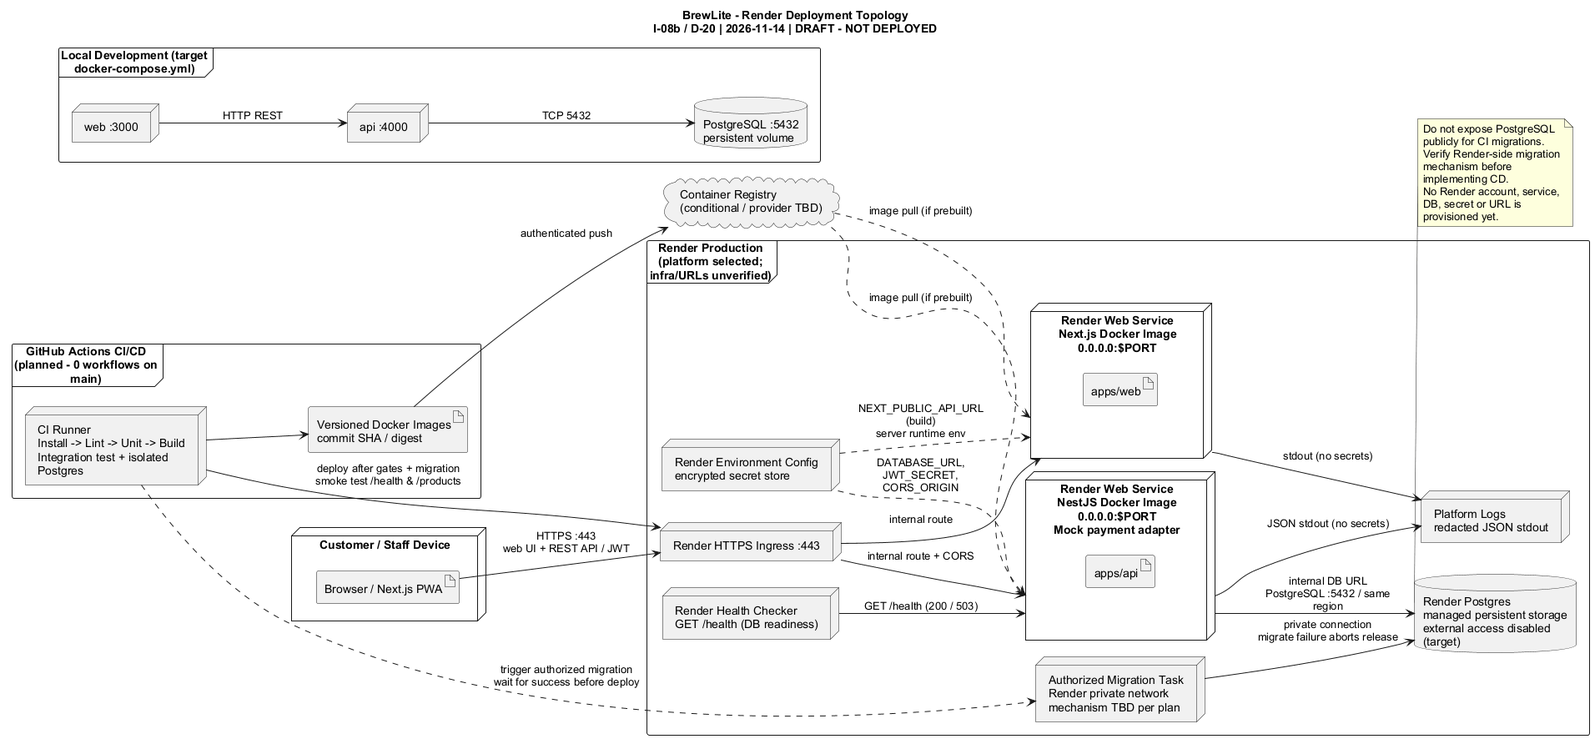
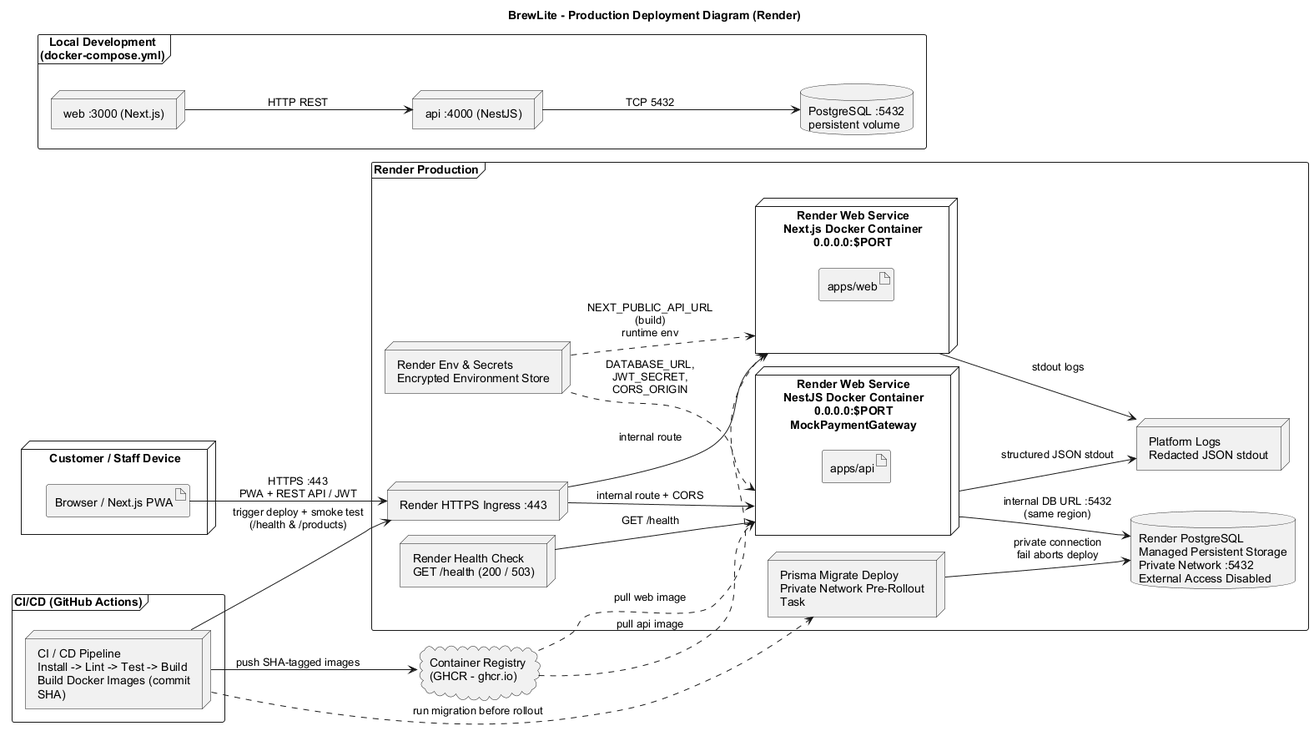
docs(tv1): keep Task 3.1/3.2 deliverables clean without audit notes

diff --git a/docs/architecture.md b/docs/architecture.md
@@ -1,12 +1,8 @@
 # Kiến trúc hệ thống BrewLite (Task 3.1)
 
-- **Phiên bản:** 1.3 – cập nhật đồng bộ `origin/main@ad3e7a2` ngày 14/11/2026, chờ TV2 review
-- **Phương pháp trình bày:** C4 model (Level 1–2) kết hợp kiến trúc phân lớp cho backend. Các quyết định quan trọng được ghi tại `docs/architecture/adr/`.
-- **Tài liệu liên quan:** [SRS tổng quát](requirements/srs.md) *(nguồn chuẩn mã FR/NFR đã hợp nhất)*, [Use-case checkout](requirements/use-case-checkout.md), [Điều kiện triển khai (D-20)](architecture/deployment-readiness.md), [Sơ đồ triển khai Render](diagrams/deployment-render.svg) ([nguồn PUML](diagrams/deployment-render.puml)).
-
-> **Lưu ý hiện trạng:** Đây là thiết kế đề xuất, không phải xác nhận hệ thống đã triển khai. Đối chiếu ngày `14/11/2026` trên `origin/main@ad3e7a2` (sau PR #54), `origin/Huy@bdf5891`, `origin/Nghia1@9f6cb4f` (PR #53) và `origin/tai@15cb1f8`: nhánh `main` chưa có ứng dụng thực thi (`apps/api`, `apps/web`, `.github/workflows` mới chỉ có `.gitkeep`); mã API/Prisma/Compose DB hiện nằm riêng trên `origin/tai`; chưa có code Next.js web, Dockerfile, CI/CD workflow hay URL production. PR #53 (chưa merge) đang xung đột với PR #54 vừa merge về bộ mã FR và các file SRS thành phần.
-
-Tài liệu này là đầu mối duy nhất cho mô tả kiến trúc **D-13**. [Đường dẫn kiến trúc cũ](architecture/architecture.md) trỏ về đây để tránh duy trì hai luồng mô tả payment khác nhau. Nhóm đã chốt dùng **Prisma** (`ADR-003: 003-postgresql-prisma.md`); việc đánh dấu `Superseded` cho bản đề xuất TypeORM (`003-orm-schema-catalog.md`) và thống nhất đánh số ADR các mảng khác thuộc chủ sở hữu tương ứng hoàn tất.
+- **Phiên bản:** 1.2 (cập nhật 2026-11-14)
+- **Phương pháp trình bày:** C4 model (Level 1–2) kết hợp kiến trúc phân lớp cho backend. Các quyết định quan trọng được ghi tại `docs/architecture/adr/` (ADR-001 đến ADR-008).
+- **Tài liệu liên quan:** [SRS](requirements/srs.md), [Use-case checkout](requirements/use-case-checkout.md), [Deployment diagram](diagrams/deployment-render.svg) ([PUML](diagrams/deployment-render.puml))
 
 ## 1. Mục tiêu và ràng buộc kiến trúc
 
@@ -22,155 +18,161 @@ Tài liệu này là đầu mối duy nhất cho mô tả kiến trúc **D-13**.
 
 ```mermaid
 flowchart LR
-    C[Khách hàng] -->|Đặt và theo dõi đơn| B[BrewLite]
-    S[Nhân viên quầy] -->|Xử lý đơn sau thanh toán| B
-    B -->|Ví hoặc Thẻ mô phỏng| P[Payment Service logic]
+    C[Khách hàng<br/>Mobile / PWA] -->|Xem menu, đặt & thanh toán, theo dõi đơn| B[Hệ thống BrewLite]
+    S[Nhân viên quầy] -->|Cập nhật trạng thái đơn| B
+    B -->|Thanh toán Ví / Thẻ mô phỏng| P[Cổng thanh toán mô phỏng]
 ```
-
-Payment Service là actor logic; cách triển khai đề xuất là adapter bên trong API (`ADR-006`).
 
 | Thành phần | Mô tả |
 |---|---|
 | Khách hàng | Đặt và thanh toán đồ uống, theo dõi đơn trên điện thoại |
-| Nhân viên quầy | Xem đơn và cập nhật trạng thái đơn (`PAID → PREPARING → READY → COMPLETED`) |
-| BrewLite | Hệ thống đặt đồ uống (`apps/web` + `apps/api` + PostgreSQL) |
-| Cổng thanh toán (mô phỏng) | Hệ thống bên ngoài về mặt logic, được cài đặt bằng adapter chạy trong API |
+| Nhân viên quầy | Xem đơn và cập nhật trạng thái đơn |
+| BrewLite | Hệ thống đặt đồ uống (web + API + database) |
+| Cổng thanh toán (mô phỏng) | Hệ thống bên ngoài về mặt logic, được cài đặt bằng adapter chạy trong API (ADR-006) |
 
 ## 3. C4 – Level 2: Container
 
 ```mermaid
 flowchart LR
-    U[Trình duyệt PWA] -->|HTTPS| W[Next.js Web]
-    U -->|HTTPS REST + JWT| A[NestJS API]
-    W -->|REST nếu render phía server| A
-    A -->|PostgreSQL protocol / Private Network| D[(PostgreSQL + persistent storage)]
+    U[Trình duyệt / PWA] -->|HTTPS| W[Web App<br/>Next.js]
+    U -->|HTTPS REST + JWT| A[API<br/>NestJS]
+    W -->|REST SSR nếu cần| A
+    A -->|TCP / Private Network :5432| D[(Database<br/>PostgreSQL)]
 ```
 
-Sơ đồ trên minh họa mức container; cổng, TLS termination, cơ chế migration và hạ tầng Render dự kiến được chi tiết tại [Điều kiện triển khai (D-20)](architecture/deployment-readiness.md) và [Sơ đồ triển khai Render](diagrams/deployment-render.svg).
-
-| Container | Công nghệ | Trách nhiệm | Mã nguồn dự kiến |
+| Container | Công nghệ | Trách nhiệm | Mã nguồn |
 |---|---|---|---|
 | Web App | Next.js, PWA | Giao diện mobile-first, giỏ hàng phía client, gọi API, hiển thị loading/empty/error | `apps/web` |
 | API | NestJS | Nghiệp vụ, xác thực JWT, validate, transaction, idempotency, job nền, gateway thanh toán mô phỏng | `apps/api` |
-| Database | PostgreSQL | Lưu người dùng, menu, đơn hàng, thanh toán, idempotency key | `apps/api/prisma/` (Prisma schema & migrations) |
+| Database | PostgreSQL | Lưu dữ liệu bền vững, ràng buộc toàn vẹn | `docker-compose.yml` (local), `apps/api/prisma/` (schema + migrations) |
 
-## 4. Kiến trúc backend (Modular Monolith)
+Cổng thanh toán mô phỏng **không phải container riêng**: nó là adapter `MockPaymentGateway` trong module `payments` của API (`apps/api/src/payments/gateway`), nên xuất hiện ở mức component (mục 4), không ở mức container (ADR-006).
 
-Backend tổ chức dạng modular monolith trên NestJS, chia theo miền nghiệp vụ tương ứng 4 phân hệ backend của nhóm:
+## 4. Kiến trúc phân lớp của backend (NestJS)
+
+Backend là modular monolith: một ứng dụng triển khai duy nhất, chia module theo domain (ADR-002).
 
 ```text
 apps/api/src/
-  common/       # config validation, logger, guards, decorators, error filters
-  prisma/       # PrismaModule & PrismaService kết nối PostgreSQL dùng chung
-  auth/         # TV2: đăng ký, đăng nhập, JWT, Users
-  products/     # TV3: danh mục, sản phẩm, size, topping, tồn kho
-  orders/       # TV4: tạo đơn (transaction), validate, lịch sử/chi tiết, cập nhật trạng thái
-  payments/     # TV4: thanh toán mô phỏng, idempotency, job nền đối soát/hủy đơn
-  health/       # TV2: GET /health, GET /health/live
+├── auth/          # đăng ký, đăng nhập, JWT, guard, thực thể User
+├── products/      # menu, size, topping, tồn kho
+├── orders/        # tạo đơn, PricingService, trạng thái, lịch sử
+├── payments/      # thanh toán, idempotency, gateway mô phỏng, job nền
+├── promotions/    # mức Could, cắt được
+├── loyalty/       # mức Could, cắt được
+├── health/        # GET /health, GET /health/live
+├── common/        # filter, interceptor, logger, guard dùng chung
+├── config/        # đọc và validate biến môi trường
+└── prisma/        # PrismaModule + PrismaService (dùng chung)
+
+apps/api/prisma/
+├── schema.prisma  # mô hình dữ liệu
+├── migrations/    # lịch sử migration (SQL)
+└── seed.ts        # dữ liệu mẫu
 ```
+
+Giỏ hàng được giữ phía client (Web App), chỉ gửi lên server khi đặt đơn; server không có module `cart`.
 
 Mỗi module theo 3 lớp:
 
-| Lớp | Thành phần | Trách nhiệm |
+| Lớp | Thành phần NestJS | Quy tắc |
 |---|---|---|
-| Presentation | Controller, DTO (`class-validator`), Guards | Nhận HTTP request, validate input, kiểm tra JWT/role, map response/HTTP status |
-| Application / Domain | Service | Quy tắc nghiệp vụ: tính giá server, chuyển trạng thái, transaction, idempotency |
-| Infrastructure | `PrismaService` (PostgreSQL), Payment gateway adapter | Truy cập DB và hệ thống ngoài |
+| Presentation | Controller, DTO (class-validator), Guard | Chỉ nhận/trả HTTP, validate đầu vào, không chứa nghiệp vụ |
+| Application/Domain | Service | Nghiệp vụ, quản lý transaction, gọi sang module khác qua service được export |
+| Infrastructure | PrismaService (Prisma Client), Payment gateway adapter | Truy cập DB và hệ thống ngoài |
 
 **Quy tắc phụ thuộc:**
-- Trong module: `Controller → Service → PrismaService hoặc Adapter`.
-- Giữa các module: chỉ gọi qua service được export, không truy cập bảng của nhau; hướng một chiều `payments → orders → products`, không phụ thuộc vòng. Các method tham gia giao dịch nhận context transaction (`tx`) để nhiều module chạy chung một transaction.
-- Mục tiêu kiểm soát tự động: dùng ESLint rule (`no-restricted-imports`) trong CI. Hiện tại `.github/workflows` chưa có workflow và `origin/tai:apps/api/package.json` chưa có script `lint`, nên chưa có bằng chứng kiểm tra tự động.
-- Job nền (hủy đơn quá hạn, đối soát payment treo) đặt trong module `payments`, chạy trong tiến trình API bằng `@nestjs/schedule`.
+- Trong module: Controller → Service → PrismaService/Adapter.
+- Giữa các module: chỉ gọi qua service được export, không truy cập bảng của nhau; hướng một chiều `payments → orders → products`, không phụ thuộc vòng. Các method tham gia giao dịch nhận `tx` (`Prisma.TransactionClient`) để nhiều module chạy chung một transaction.
+- Quy tắc được kiểm tra tự động trong bước lint của CI (ESLint `no-restricted-imports` hoặc `dependency-cruiser`).
+- Job nền (hủy đơn quá hạn, đối soát payment treo) đặt trong module `payments`, chạy trong container API bằng `@nestjs/schedule`.
 
-**Thiết kế bảo mật (ADR-007; chưa triển khai đầy đủ):** JWT HS256 sống ngắn, `JwtAuthGuard` toàn cục kèm `@Public()` cho endpoint công khai, `RolesGuard` cho `CUSTOMER`/`STAFF`, kiểm tra quyền sở hữu đơn trong service, mật khẩu băm bằng bcrypt.
+**Bảo mật (ADR-007):** JWT HS256 sống ngắn, `JwtAuthGuard` toàn cục kèm `@Public()` cho endpoint công khai, `RolesGuard` cho `CUSTOMER`/`STAFF`, kiểm tra quyền sở hữu đơn trong service, mật khẩu băm bằng bcrypt.
 
 ## 5. Frontend Next.js / PWA
 
-- **Mobile-first:** layout ưu tiên màn hình nhỏ (từ 320 px, kiểm tra lịch sử ở 360/390 px), vùng chạm chính `>= 48x48` CSS px.
-- **PWA:** `manifest.webmanifest`, service worker cache tài nguyên tĩnh và trang menu; **không** cache các API có xác thực (đơn hàng, thanh toán).
-- **Gọi API:** lớp `lib/api` tập trung, tự gắn JWT trong header `Authorization`; tự sinh `Idempotency-Key` cho mỗi ý định thanh toán và giữ nguyên key khi retry cùng ý định; đơn mới dùng key mới.
-- **Phiên đăng nhập:** khi API trả `401`, chuyển hướng đăng nhập và giữ giỏ hàng (lưu phía client).
-- **Trạng thái UI:** mọi màn hình dữ liệu đều tách bạch trạng thái loading / empty / error; trạng thái đơn không chỉ phân biệt bằng màu.
-- **Cấu hình:** biến `NEXT_PUBLIC_API_URL` được nhúng lúc build Docker/Next.js cho từng môi trường (ADR-008); không đặt secret trong bất kỳ biến `NEXT_PUBLIC_*` nào.
+- **Mobile-first:** layout ưu tiên màn hình nhỏ, thành phần chạm lớn.
+- **PWA:** `manifest.webmanifest`, service worker cache tài nguyên tĩnh và trang menu; không cache các API có xác thực (đơn hàng, thanh toán).
+- **Gọi API:** lớp `lib/api` tập trung, tự gắn JWT trong header `Authorization`; tự sinh `Idempotency-Key` cho mỗi ý định thanh toán và giữ nguyên key khi retry; đơn mới thì dùng key mới.
+- **Phiên đăng nhập:** khi API trả `401`, chuyển sang trang đăng nhập và giữ giỏ hàng (lưu phía client).
+- **Trạng thái UI:** mọi màn hình dữ liệu đều có loading / empty / error.
+- **Cấu hình:** `NEXT_PUBLIC_API_URL` được nhúng lúc build, nên image web production được build với URL API của production (ADR-008). Không đặt secret trong biến `NEXT_PUBLIC_*`.
 
 ## 6. PostgreSQL và cơ chế migration
 
-- **Quyết định ORM đã chốt:** Nhóm đã chốt sử dụng **PostgreSQL + Prisma (`Prisma Migrate`)** theo [ADR-003 Prisma](architecture/adr/003-postgresql-prisma.md), khớp với cấu trúc `apps/api/prisma/schema.prisma` trên nhánh `origin/tai@15cb1f8`. Bản đề xuất TypeORM cũ ([003-orm-schema-catalog.md](architecture/adr/003-orm-schema-catalog.md)) trên `main` cần được **TV3** đánh dấu `Superseded` để xóa trùng mã ADR `003` (giữ lại các quy ước schema như tiền `integer` VND, `CHECK`, snapshot giá và seed idempotent).
-- **Local:** `prisma migrate dev` tạo migration mới. **Production/CI:** `prisma migrate deploy` chỉ áp dụng các migration đã commit (không dùng `migrate dev` hay `db push` ở production); Dockerfile/CI chạy `prisma generate` trước bước build.
-- **Migration khi deploy:** chạy như một bước kiểm soát riêng **trước khi chuyển lưu lượng** sang bản mới; thất bại thì pipeline dừng. Vì runner CI công khai không được kết nối trực tiếp vào DB private trên Render, cần dùng tác vụ chạy phía Render trong mạng nội bộ.
-- **Seed:** script seed phải idempotent (`prisma db seed`). Dữ liệu danh mục/món mẫu có thể chạy kiểm soát; tài khoản demo chỉ dành cho local/staging.
-- **Migration an toàn:** ưu tiên thay đổi tương thích ngược (expand → contract); rollback dùng migration sửa ngược hoặc khôi phục snapshot trước migration.
-- **Ràng buộc dữ liệu bắt buộc:** `CHECK (stock_quantity >= 0)`, giá và phụ thu nguyên VND `>= 0`, partial unique index `payments(order_id) WHERE status = 'SUCCESS'`, khóa duy nhất `(user_id, key)` cho idempotency, khóa ngoại rõ ràng.
-- **Storage:** PostgreSQL local dùng persistent volume trong `docker-compose.yml`; production dùng managed persistent storage và **tắt external/public access**.
+- Dùng **Prisma** (Prisma Client + Prisma Migrate). Mô hình dữ liệu khai báo trong `apps/api/prisma/schema.prisma` (ADR-003).
+- **Local:** `prisma migrate dev` tạo migration mới. **Production/CI:** `prisma migrate deploy` chỉ áp dụng các migration đã commit (không dùng `migrate dev` hay `db push` ở production); Dockerfile và CI chạy `prisma generate` trước bước build.
+- `prisma migrate deploy` chạy như **một bước riêng trong pipeline deploy** (trong mạng nội bộ trước khi chuyển lưu lượng sang bản mới); thất bại thì pipeline dừng. Có backup/snapshot trước khi migrate nếu nền tảng hỗ trợ.
+- **Seed** bằng `prisma db seed` (`prisma/seed.ts`), idempotent. Dữ liệu tham chiếu (danh mục, sản phẩm, size, topping) được chạy một lần có kiểm soát trên production để menu không rỗng; dữ liệu demo (tài khoản mẫu) chỉ chạy ở local/staging.
+- **Migration an toàn:** chỉ thêm cột/bảng theo kiểu tương thích ngược (expand → contract). Prisma không sinh `down`, nên rollback dùng migration mới "sửa ngược" hoặc restore backup.
+- **Ràng buộc ở mức DB:** `CHECK (stock_quantity >= 0)`, giá và phụ thu `>= 0`, partial unique index `payments(order_id) WHERE status = 'SUCCESS'` (thêm bằng SQL thủ công trong file migration), `@@unique([userId, key])` cho `idempotency_keys`, khóa ngoại giữa `orders`/`order_items`/`payments`.
+- **Docker:** local chạy service `db` với persistent volume; production dùng managed persistent storage và không public trực tiếp.
 
 ## 7. Dịch vụ thanh toán mô phỏng
 
-- Interface `PaymentGateway` có `charge(request)` (idempotent theo key) và `getStatus(idempotencyKey)` để đối soát sau timeout (`GatewayTimeoutError`).
-- `MockPaymentGateway` (Ví/Thẻ) cho phép mô phỏng thành công, từ chối, timeout và độ trễ; lưu trạng thái giả lập trong DB để không mất khi API khởi động lại.
-- Chọn provider qua `PAYMENT_PROVIDER=mock`, cho phép thay bằng cổng thật mà không sửa nghiệp vụ cốt lõi (ADR-006).
+- Interface `PaymentGateway` có `charge(request)` (idempotent theo key) và `getStatus(idempotencyKey)` để đối soát sau timeout; timeout biểu diễn bằng `GatewayTimeoutError`.
+- `MockPaymentGateway` (Ví/Thẻ) có hành vi điều khiển bằng số thẻ/ví thử nghiệm: thành công, từ chối, timeout đã trừ tiền, timeout chưa trừ tiền, độ trễ. Trạng thái giao dịch lưu trong bảng riêng `mock_gateway_transactions` để không mất khi API khởi động lại.
+- Chọn provider bằng `PAYMENT_PROVIDER=mock`. Có thể thay bằng cổng thật (VNPay/Stripe…) mà không đổi nghiệp vụ nhờ interface.
+- Xem ADR-006.
 
 ## 8. Logging, health check, quản lý cấu hình
 
 | Hạng mục | Giải pháp |
 |---|---|
-| Logging | Log JSON có cấu trúc (pino/`nestjs-pino`), gắn `requestId`, xuất ra stdout; redact `authorization`, `cookie`, mật khẩu, token; không log số thẻ hoặc secret (`NFR-07`) |
-| Health check | `GET /health` (readiness: kiểm tra API + kết nối DB, trả 200 hoặc 503 khi mất DB) theo `NFR-16`; thống nhất với `ADR-008` về `/health/live` trước khi cài đặt `health` module |
-| Cấu hình & cổng | Biến môi trường 12-factor, validate khi khởi động; tương thích biến `PORT` do Render cấp cho Web Service (mã `origin/tai:apps/api/src/main.ts` hiện chỉ đọc `API_PORT`, cần bổ sung `PORT ?? API_PORT ?? 4000` khi tích hợp) |
-| Secret | Lưu ở CI/Render secret manager; repository chỉ chứa `.env.example` (`NFR-17`) |
+| Logging | Log JSON có cấu trúc (pino/nestjs-pino), mỗi request có `requestId`, ghi ra stdout; `redact` cho `authorization`, `cookie`, mật khẩu, token; không log số thẻ |
+| Health check | `GET /health` (readiness: API + kết nối DB, trả 200/503) và `GET /health/live` (liveness, không kiểm tra DB) bằng `@nestjs/terminus`; `/health/live` dùng cho Docker `HEALTHCHECK`, `/health` dùng cho smoke test sau deploy |
+| Cấu hình & cổng | Biến môi trường theo 12-factor; `@nestjs/config` + schema validation, thiếu biến bắt buộc thì app không khởi động; web và API lắng nghe `0.0.0.0:$PORT` trên Render (API fallback `PORT ?? API_PORT ?? 4000`); danh sách biến ở ADR-008 và `.env.example` |
+| Secret | Lưu trong secret của CI/nền tảng triển khai; repo chỉ có `.env.example` |
 
-## 9. Luồng nghiệp vụ đặt và thanh toán (tổng hợp tham chiếu)
+## 9. Luồng nghiệp vụ quan trọng: đặt và thanh toán
 
-1. `POST /orders` (JWT) → kiểm tra JWT/DTO → transaction: kiểm tra & trừ tồn kho có điều kiện, tạo `Order` (`PENDING_PAYMENT`) và `OrderItem` với giá tính phía server + snapshot; hết hàng thì rollback trả `409`.
-2. `POST /payments` (`Idempotency-Key`) → kiểm tra chủ đơn & trạng thái, lưu key `IN_PROGRESS` → gọi gateway mô phỏng:
-   - Thành công → `Payment=SUCCESS`, `Order=PAID`.
-   - Thất bại → `Payment=FAILED`, `Order=PAYMENT_FAILED`, hoàn kho đúng một lần; thử lại bằng đơn mới.
-   - Timeout → giữ trạng thái chờ (`202`), đối soát qua `getStatus` / job nền.
-3. Nhân viên (`STAFF`) xem đơn cần xử lý và chuyển trạng thái hợp lệ `PAID → PREPARING → READY → COMPLETED`.
+1. Client gọi `POST /orders` (JWT) → API validate, mở transaction: trừ tồn kho có điều kiện (`UPDATE ... WHERE stock_quantity >= qty`, theo `product_id` tăng dần), tạo `Order` (`PENDING_PAYMENT`) và `OrderItem`, commit. Hết hàng thì rollback, trả `409 OUT_OF_STOCK`.
+2. Client gọi `POST /payments` với header `Idempotency-Key`. API kiểm tra quyền sở hữu và trạng thái đơn, rồi chèn bản ghi key `IN_PROGRESS` (UNIQUE theo `user_id`, `key`). Key đã tồn tại thì: nội dung khác → `422`, đã `COMPLETED` → trả lại kết quả cũ, đang `IN_PROGRESS` → `409`.
+3. API gọi Payment Gateway (ngoài transaction DB):
+   - **Thành công:** `Payment=SUCCESS`, `Order=PAID`.
+   - **Thất bại:** `Payment=FAILED`, `Order=PAYMENT_FAILED` (trạng thái cuối), hoàn tồn kho trong cùng transaction. Muốn thử lại, khách tạo **đơn mới** từ giỏ hàng.
+   - **Timeout:** payment giữ `PENDING`, đơn giữ `PENDING_PAYMENT`, API trả `202`; hệ thống đối soát bằng `getStatus` rồi xử lý như hai nhánh trên.
+4. Cập nhật đơn và hoàn kho dùng cập nhật có điều kiện (`WHERE status = 'PENDING_PAYMENT'`, hoàn kho chỉ khi cập nhật ảnh hưởng đúng 1 dòng) để không hoàn kho hai lần. Job nền hủy đơn `PENDING_PAYMENT` quá hạn theo cùng quy tắc, chỉ hủy đơn không có payment `PENDING`/`SUCCESS` hoặc sau khi đối soát.
+5. Client theo dõi trạng thái qua `GET /orders/:id`.
 
-*(Chi tiết hợp đồng nghiệp vụ thuộc TV4/TV2/TV3 tại ADR-004, ADR-005, [use-case-checkout.md](requirements/use-case-checkout.md) và [srs.md](requirements/srs.md)).*
+Chi tiết: ADR-004, ADR-005 và sequence diagram [sequence-checkout.puml](diagrams/sequence-checkout.puml).
 
-## 10. Lý do chọn kiến trúc và Trade-off
+## 10. Lý do chọn kiến trúc, ưu điểm, hạn chế, trade-off
 
-**Lựa chọn:** Monorepo + Modular Monolith (NestJS) + Next.js tách riêng + PostgreSQL.
+**Lựa chọn:** Monorepo + modular monolith (NestJS) + Next.js tách riêng + PostgreSQL.
 
 | Ưu điểm | Hạn chế | Trade-off |
 |---|---|---|
-| Triển khai/gỡ lỗi đơn giản, phù hợp nhóm 6 người trong 2 Sprint | Không scale độc lập từng module API | Chấp nhận cho tải một cửa hàng; giữ ranh giới module rõ để tách sau nếu cần |
-| Transaction ACID trong một DB bảo đảm nhất quán đơn – kho – thanh toán | Một DB là điểm lỗi đơn (SPOF) | Đánh đổi lấy tính toàn vẹn tài chính/kho; bù bằng persistent storage và backup |
-| Monorepo tập trung code, docs, sơ đồ và traceability | CI phải lọc hoặc tách job hợp lý để tránh build thừa | Vẫn phải chạy đủ quality gate bắt buộc cho web/API khi merge vào `main` |
-| Tách Web/API giúp tận dụng SSR/PWA độc lập với API | Cần cấu hình CORS, 2 URL HTTPS và build-time env cho web | Truyền cấu hình theo môi trường qua biến môi trường/build arg |
+| Đơn giản triển khai và gỡ lỗi; phù hợp quy mô nhóm và thời gian | Không scale từng module độc lập | Chấp nhận vì tải thấp; ranh giới module rõ nên có thể tách thành service sau này |
+| Transaction ACID trong một DB đảm bảo nhất quán đơn hàng/tồn kho/thanh toán | Một DB là điểm lỗi duy nhất | Đánh đổi lấy tính đúng đắn; bổ sung backup/persistent volume |
+| Monorepo giúp CI/CD, tài liệu và truy vết tập trung | Pipeline phải lọc theo thư mục để tránh build thừa | Lọc theo đường dẫn ở mức job trong một workflow để kiểm tra bắt buộc không bị treo (ADR-001) |
+| Tách web/API cho phép deploy và scale độc lập, tận dụng SSR/PWA | Cần cấu hình CORS, quản lý 2 URL; image web phải build theo môi trường | Dùng biến môi trường, build arg trong pipeline và HTTPS |
+| Cổng thanh toán qua interface dễ thay thế | Mô phỏng chưa phản ánh đầy đủ webhook/3-D Secure | Mô phỏng thêm timeout/lỗi và `getStatus` để kiểm thử idempotency và đối soát |
+| Kiến trúc phân lớp dễ viết unit test | Nhiều lớp hơn cho tính năng nhỏ; truyền `tx` làm chữ ký method dài hơn | Giữ lớp mỏng, tránh trừu tượng thừa |
+| Cập nhật có điều kiện và idempotency bảo vệ tính đúng đắn khi đồng thời | Job đối soát làm hệ thống phức tạp hơn | Giới hạn ở đối soát từng giao dịch, không làm đối soát hàng loạt |
 
-## 11. ADR hiện có và các sai khác cần nhóm chốt
+## 11. Danh sách ADR
 
-| Mã file trên `main` | Quyết định | Sai khác / Hành động cần chốt |
-|---|---|---|
-| `001-monorepo.md` | Monorepo + Docker (TV1 – D-14) | Chờ TV2 review bản cập nhật mới |
-| `002-modular-monolith-nestjs.md` | Backend NestJS modular monolith | Đang trùng dải số với D-15 (phân công ghi `ADR 002: JWT và bảo mật`) |
-| `003-postgresql-prisma.md` vs `003-orm-schema-catalog.md` | Prisma (Accepted) vs TypeORM (Proposed) | **Nhóm đã chốt Prisma**; TV3 cần đánh dấu `003-orm-schema-catalog.md` là `Superseded` để hết trùng số `003` |
-| `004-transaction-order-inventory.md` | Transaction đơn hàng & tồn kho | Đủ nội dung nền; chờ khớp enum/sequence |
-| `005-idempotency-payment.md` | Idempotency thanh toán | Đang trùng số với D-18 (phân công ghi `ADR 005: Next.js PWA`) |
-| `006-mock-payment-gateway.md` | Mock Payment Gateway | Đang trùng số với D-19 (phân công ghi `ADR 006: Chiến lược kiểm thử`) |
-| `007-jwt-authentication.md` | JWT Authentication | Nội dung khớp mảng TV2 nhưng khác mã số trong Excel D-15 |
-| `008-logging-health-config.md` | Logging, health check, cấu hình | Cần đồng nhất endpoint `/health` và `/health/live` với TV2 |
+| Mã | Quyết định |
+|---|---|
+| 001 | Dùng monorepo và đóng gói Docker (`001-monorepo.md`) |
+| 002 | Backend NestJS dạng modular monolith |
+| 003 | PostgreSQL + Prisma (`003-postgresql-prisma.md`) |
+| 004 | Transaction khi tạo đơn và trừ tồn kho |
+| 005 | Idempotency cho thanh toán |
+| 006 | Dịch vụ thanh toán mô phỏng qua interface |
+| 007 | Xác thực bằng JWT |
+| 008 | Logging, health check, cấu hình |
 
-## 12. Truy vết Sơ đồ triển khai (`D-20`) → Kiến trúc → Mã nguồn
+## 12. Truy vết deployment diagram → kiến trúc → mã nguồn
 
-| Thành phần trong deployment diagram | Mục liên quan | Mã nguồn mục tiêu | Nền tảng dự kiến & Hiện trạng `14/11/2026` |
+Mỗi container/dịch vụ trong [deployment-render.svg](diagrams/deployment-render.svg) ([PUML](diagrams/deployment-render.puml)) truy vết về một thành phần trong tài liệu này và mã nguồn trên nền tảng **Render**.
+
+| Thành phần trong deployment diagram | Mục trong tài liệu này | Mã nguồn | Nền tảng thực tế |
 |---|---|---|---|
-| Thiết bị người dùng (PWA) | Mục 2, 5 | `apps/web` | Trình duyệt / PWA; `apps/web` trên `main` mới chỉ có `.gitkeep` |
-| Web App (Next.js) | Mục 3, 5 | `apps/web`, `apps/web/Dockerfile` | Render Web Service; chưa có app/Dockerfile/URL |
-| API (NestJS) | Mục 3, 4, 7, 8 | `apps/api`, `apps/api/Dockerfile` | Render Web Service; code API nằm ở `origin/tai@15cb1f8`, chưa vào `main` |
-| PostgreSQL + persistent storage | Mục 3, 6 | `apps/api/prisma/`, `docker-compose.yml` | Render Postgres (private network); trên `tai` mới chỉ compose DB local |
-| Container Registry | Mục 6, D-20 | `.github/workflows` | Chưa chốt nhà cung cấp registry (chỉ dùng nếu Render pull prebuilt image) |
-| Pipeline CI/CD | ADR-001, D-07 | `.github/workflows` | GitHub Actions; hiện có `0` workflow trên `main` |
-
-## 13. Đối chiếu liên kết với bài làm của nhóm (`14/11/2026`)
-
-| Đầu vào đã đọc | Điểm phù hợp | Chỗ lệch & Ảnh hưởng | Đề xuất cho chủ sở hữu |
-|---|---|---|---|
-| `origin/main:docs/requirements/srs.md@ad3e7a2` (PR #54) & PR #53 | Đã chốt `NFR-14..20` cho triển khai và `NFR-07` cho logging | Mục 1 `srs.md` còn ghi `NFR-01…NFR-14`, mục 5 ghi nhầm `FR-37…FR-37`, mục 4 giữ link tới 2 file SRS đã xóa; xung đột trực tiếp với PR #53 | TV2 & TV3 hợp nhất/chốt 1 dải mã FR duy nhất và sửa link gãy |
-| `origin/Huy@bdf5891` (`activity-diagram.puml/.png/.svg`) | Đã có swimlane, kiểm tra tồn kho và nhánh đăng nhập | Chưa mở PR; nhánh dính gitlink rác `BrewLite_Assignment_2`, sửa file SRS đã bị xóa, Activity lặp vô tận khi thanh toán thất bại và thiếu bước giỏ hàng | TV5 dọn nhánh, chỉnh Activity theo SRS và mở PR để TV6 review |
-| `origin/main:docs/diagrams/sequence-checkout.puml/.svg` | Đủ 5 lifeline, JWT, transaction, idempotency | `.puml` lệch `.svg`; nhánh hết hàng không dừng mà vẫn chảy xuống HTTP `201` và thanh toán | TV4 sửa `.puml` và xuất lại `.svg`/`.png` gửi TV1 review |
-| `origin/main:docs/diagrams/class-domain.puml` | Đủ thực thể `User`, `Product`, `Order`, `Payment`, snapshot | Thiếu `PAYMENT_FAILED` trong `OrderStatus`, dùng `SUCCEEDED` thay cho `SUCCESS` ở `PaymentStatus` | TV3 đồng bộ enum khớp với SRS và schema trên `origin/tai` |
-| `origin/tai@15cb1f8` (`apps/api`, `docker-compose.yml`) | Có Prisma schema (`PAYMENT_FAILED`, `SUCCESS`), transaction và 7 e2e specs | Chưa vào `main`; thiếu script `lint`, thiếu `/health`, `main.ts` chỉ đọc `API_PORT` (chưa fallback `PORT` của Render), chưa có `apps/web` | Tách/hợp nhất khung API Prisma lên từ `main` và bổ sung `lint`/`/health`/`PORT`; sau đó TV1 tích hợp Dockerfile (`prisma generate`), Compose 3 service và CI |
+| Thiết bị người dùng (trình duyệt/PWA) | Mục 2, 5 | `apps/web` | Trình duyệt / Mobile PWA |
+| Web App (Next.js) | Mục 3, 5 | `apps/web`, `apps/web/Dockerfile` | Render Web Service (Docker, `$PORT`) |
+| API (NestJS) | Mục 3, 4, 7, 8 | `apps/api`, `apps/api/Dockerfile` | Render Web Service (Docker, `$PORT`) |
+| PostgreSQL + persistent storage | Mục 3, 6 | `apps/api/prisma/`, `docker-compose.yml` | Render PostgreSQL (Private Network, Persistent Storage) |
+| Container registry | Mục 8 (pipeline) | `.github/workflows` | GitHub Container Registry (GHCR) |
+| Pipeline CI/CD | ADR-001, ADR-008 | `.github/workflows` | GitHub Actions |

diff --git a/docs/architecture/adr/001-monorepo.md b/docs/architecture/adr/001-monorepo.md
@@ -1,31 +1,27 @@
 # ADR-001: Sử dụng monorepo và đóng gói Docker cho web, API và tài liệu
 
-- **Trạng thái:** Bản cập nhật đề xuất (`I-08a / D-14`), chờ TV2 review (14/11/2026) — giữ trạng thái mở thay cho nhãn `Accepted` cũ vì chưa đủ bằng chứng CI/Docker nghiệm thu.
+- **Trạng thái:** Accepted
 - **Ngày:** 2026-11-08 (cập nhật 2026-11-14)
-- **Người quyết định:** Nhóm BrewLite (chủ trì phần đóng gói/monorepo: TV1)
+- **Người quyết định:** Nhóm BrewLite
 
 ## Bối cảnh
-Dự án gồm frontend (Next.js), backend (NestJS), tài liệu đặc tả/sơ đồ, test tích hợp/E2E và pipeline CI/CD. Đề bài Assignment 2 (mục 9) yêu cầu cấu trúc thống nhất `apps/web`, `apps/api`, `docs`, `tests`, `.github/workflows` và truy vết xuyên suốt yêu cầu → thiết kế → code → test.
+Dự án gồm frontend (Next.js), backend (NestJS), tài liệu, test tích hợp/E2E và pipeline CI/CD. Đề bài yêu cầu cấu trúc `apps/web`, `apps/api`, `docs`, `tests`, `.github/workflows` và truy vết xuyên suốt từ yêu cầu → thiết kế → code → test, đồng thời chạy được đồng nhất giữa local và môi trường triển khai bằng Docker.
 
 ## Các lựa chọn
-1. **Monorepo** (một repository cho toàn bộ web, API, tài liệu và kiểm thử).
-2. Polyrepo (tách repo riêng cho frontend, backend, tài liệu).
+1. **Monorepo + Docker** (một repository cho web, API, tài liệu và kiểm thử; đóng gói từng dịch vụ bằng `Dockerfile` riêng và chạy local bằng `docker-compose.yml`).
+2. Polyrepo (tách repo riêng cho web, API, docs).
 
 ## Quyết định
-Chọn **monorepo** với cấu trúc `apps/web`, `apps/api`, `docs`, `tests`, `.github/workflows`.
-
-Về đóng gói và vận hành (**D-14**, căn cứ `NFR-14`, `NFR-15`, `NFR-17`, `NFR-18`):
-- Đóng gói `apps/web` và `apps/api` bằng `Dockerfile` riêng (multi-stage build để giữ image gọn); dùng `docker-compose.yml` ở root để chạy đủ 3 service `web`, `api`, `db` khi phát triển và kiểm thử ở local.
-- PostgreSQL local dùng persistent volume; migration chạy có kiểm soát (`prisma migrate deploy` vì nhóm đã chốt Prisma) trước khi phục vụ lưu lượng ở production, seed tài khoản demo chỉ chạy ở local/staging.
-- **Cấu hình và bảo mật container:** không nhúng secret vào image hoặc biến `NEXT_PUBLIC_*`. Khi chạy trên nền tảng **Render** (lựa chọn triển khai dự kiến ở D-20), ứng dụng web và API phải lắng nghe `0.0.0.0:$PORT`, còn `NEXT_PUBLIC_API_URL` cần được truyền đúng thời điểm build image web.
-- **CI/CD:** GitHub Actions chạy `Install → Lint → Unit Test → Build` cho cả `apps/web` và `apps/api` trên pull request; không cấu hình bộ lọc đường dẫn làm bỏ qua trạng thái kiểm tra bắt buộc khi merge vào `main`.
-- **Phạm vi quyết định:** ADR-001 chỉ quyết định cấu trúc monorepo và chiến lược đóng gói Docker. Quyết định ORM (`ADR-003`), xác thực (`ADR-007`), state frontend (`D-18`) và kiểm thử (`D-19`) thuộc owner tương ứng.
-
-**Bằng chứng tại 14/11/2026:** `origin/main@ad3e7a2` mới chỉ có khung thư mục và tài liệu; `origin/tai@15cb1f8` có khung NestJS/Prisma và `docker-compose.yml` mới chạy riêng service `db`; chưa có `apps/web`, chưa có `Dockerfile` web/api và chưa có workflow CI trong `.github/workflows/`. Chỉ được xác nhận hoàn thành sau khi clone mới → Docker Compose 3 service chạy được → migrate/seed DB rỗng thành công → CI xanh trên PR và qua review TV2.
+Chọn **monorepo** với cấu trúc `apps/web`, `apps/api`, `docs`, `tests`, `.github/workflows`, kết hợp đóng gói **Docker**:
+- `apps/web/Dockerfile` và `apps/api/Dockerfile` sử dụng multi-stage build để giữ image gọn và ổn định cho CI/CD.
+- `docker-compose.yml` ở thư mục gốc khởi chạy đủ 3 service `web`, `api` và `db` (PostgreSQL kèm persistent volume) cho môi trường local/test.
+- Image production của web nhúng `NEXT_PUBLIC_API_URL` lúc build; cả web và API lắng nghe `0.0.0.0:$PORT` trên Render và không đưa secret vào image hoặc biến `NEXT_PUBLIC_*`.
+- Migration cơ sở dữ liệu chạy bằng `prisma migrate deploy` (Prisma) như bước kiểm soát trước khi chuyển lưu lượng; `prisma generate` chạy trong quá trình build API.
+- GitHub Actions thực thi quality gate trên một lịch sử commit thống nhất trong monorepo.
 
 ## Hệ quả
-- (+) Một pull request có thể đồng bộ yêu cầu, sơ đồ, code và test → dễ truy vết.
-- (+) Tập trung một bộ pipeline CI/CD và một lịch sử Git chuẩn theo đề bài.
-- (+) Dễ dùng chung contract/DTO giữa frontend và backend.
-- (–) Cần quản lý tốt Docker context, khóa lockfile và cache để build trong CI không chậm.
-- (–) Chưa thể tạo workflow CI/Dockerfile chính thức trên `main` chừng nào chưa có `apps/web` và chưa hợp nhất khung `apps/api` (Prisma) từ nhánh làm việc vào `main`.
+- (+) Một pull request có thể sửa đồng thời yêu cầu, sơ đồ, code và test → dễ truy vết.
+- (+) Môi trường local, CI và production dùng chung cấu hình đóng gói Docker, hạn chế sai khác giữa máy thành viên.
+- (+) Dễ chia sẻ kiểu dữ liệu/hợp đồng API giữa frontend và backend.
+- (–) Cần quản lý Docker context, cache lớp image và lọc job hợp lý để pipeline không build chậm.
+- (–) Repo lớn dần theo thời gian (không đáng kể ở quy mô đề tài).

diff --git a/docs/architecture/architecture.md b/docs/architecture/architecture.md
@@ -1,5 +1,3 @@
-# Kiến trúc BrewLite – Đường dẫn tham chiếu
+# Kiến trúc hệ thống BrewLite
 
-Nội dung kiến trúc hệ thống (**D-13**, Task 3.1) được duy trì tại một đầu mối duy nhất là [Kiến trúc hệ thống BrewLite](../architecture.md).
-
-Trước đây tồn tại hai tài liệu kiến trúc mô tả khác nhau về trạng thái thanh toán thất bại và thiếu đồng bộ với tài liệu triển khai. Bản cập nhật của TV1 gom về đầu mối tại [docs/architecture.md](../architecture.md), bổ sung rà soát xung đột ORM, hợp đồng `Render` (D-20) và trạng thái thực tế trên `origin/main@ad3e7a2`; chờ TV2 review.
+Tài liệu kiến trúc hệ thống chính thức (**Task 3.1**) được duy trì thống nhất tại [docs/architecture.md](../architecture.md).
